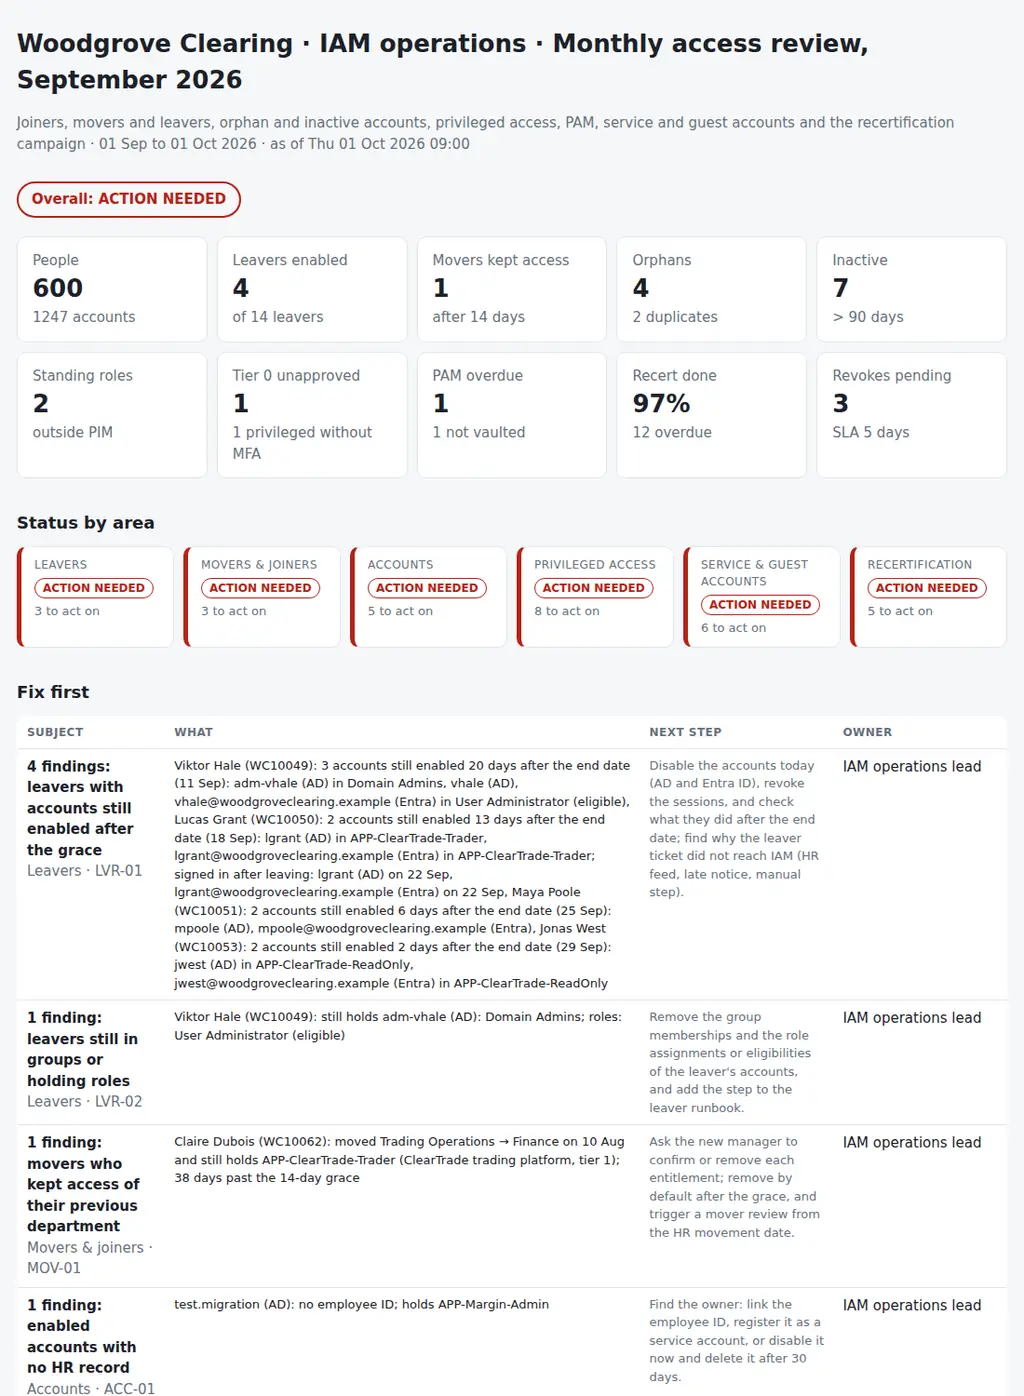
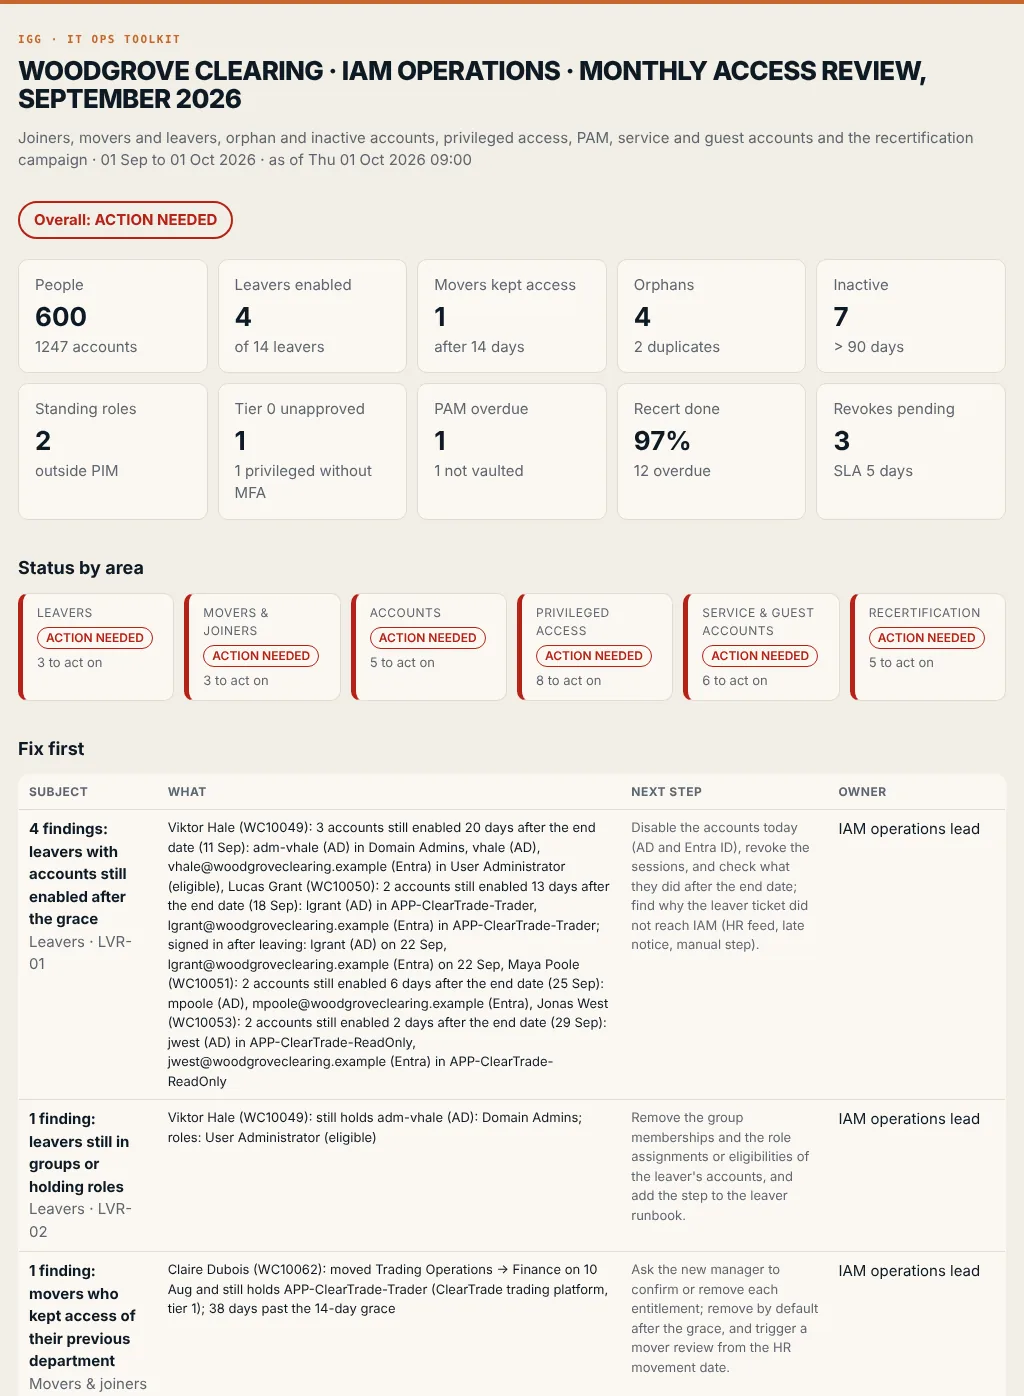
Report: IGG colours (paper, ink and the orange accent) and a new screenshot

diff --git a/iamreview/report.py b/iamreview/report.py
@@ -239,9 +239,9 @@ def pack_md(d: Data, rv: dict, findings: list[Finding], title: str) -> str:
 # ---------------------------------------------------------------- html
 
 CSS = """
-:root{--bg:#f6f7f8;--card:#fff;--ink:#1b2128;--muted:#66717c;--line:#e2e5e9;--ok:#1e7a4c;--warn:#a46200;--bad:#b42318;--info:#0b6bcb}
-@media (prefers-color-scheme:dark){:root{--bg:#13171b;--card:#1b2127;--ink:#e7eaee;--muted:#9aa5b0;--line:#2b333b;--ok:#4cc38a;--warn:#f0a83a;--bad:#f2685c;--info:#5aa9f0}}
-*{box-sizing:border-box}body{margin:0;background:var(--bg);color:var(--ink);font:15px/1.5 system-ui,-apple-system,Segoe UI,sans-serif}
+:root{--bg:#f2eee6;--card:#fbf8f3;--ink:#0e1a24;--muted:#5d6670;--line:#e2dccf;--ok:#1e7a4c;--warn:#a46200;--bad:#b42318;--info:#1f5f8b}
+@media (prefers-color-scheme:dark){:root{--bg:#0e1a24;--card:#142331;--ink:#f2eee6;--muted:#a9b3bb;--line:#24364a;--ok:#4cc38a;--warn:#f0a83a;--bad:#f2685c;--info:#5aa9f0}}
+*{box-sizing:border-box}body{border-top:4px solid #c4672b}h1{font-weight:800;letter-spacing:-.025em;text-transform:uppercase;line-height:1.05}h1::before{content:"IGG · IT Ops toolkit";display:block;font:600 11px/1.4 ui-monospace,SFMono-Regular,Menlo,monospace;letter-spacing:.14em;text-transform:uppercase;color:#c4672b;margin-bottom:10px}body{margin:0;background:var(--bg);color:var(--ink);font:15px/1.5 system-ui,-apple-system,Segoe UI,sans-serif}
 main{max-width:1100px;margin:0 auto;padding:28px 18px 60px}h1{font-size:26px;margin:0 0 4px}h2{font-size:18px;margin:34px 0 12px}
 .muted{color:var(--muted)}.tiles{display:grid;grid-template-columns:repeat(auto-fit,minmax(170px,1fr));gap:10px;margin-top:20px}
 .tile{background:var(--card);border:1px solid var(--line);border-radius:10px;padding:14px 16px}.tile b{display:block;font-size:26px}
